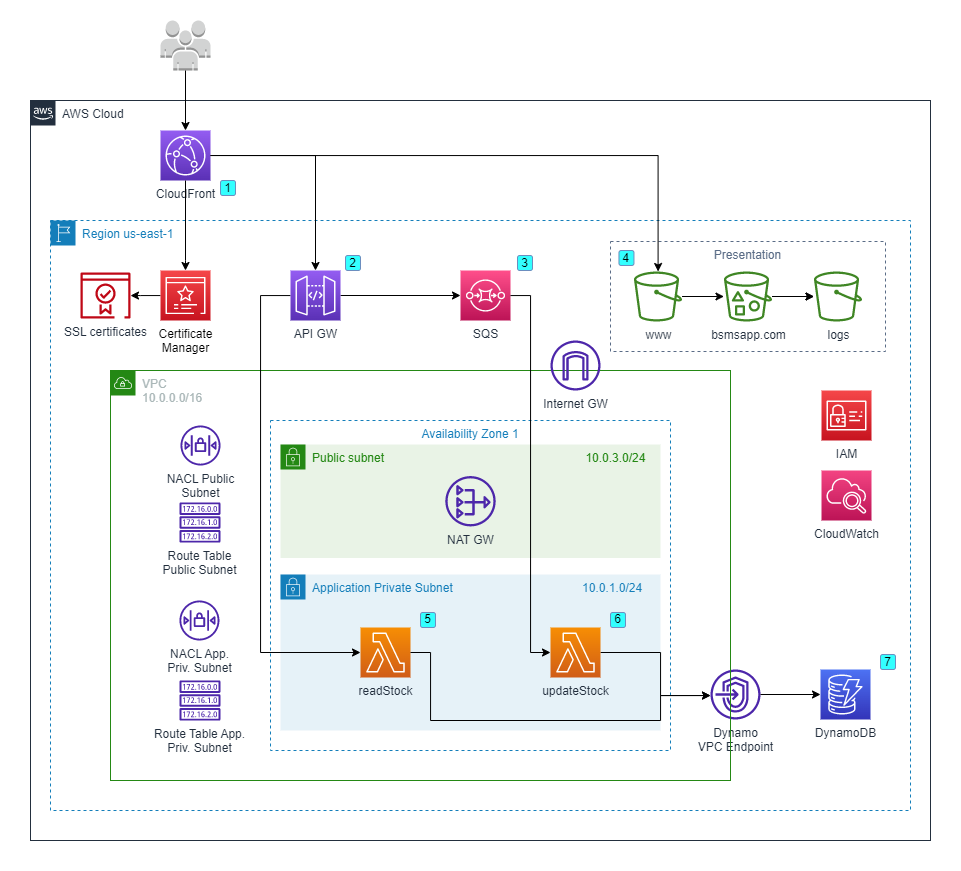
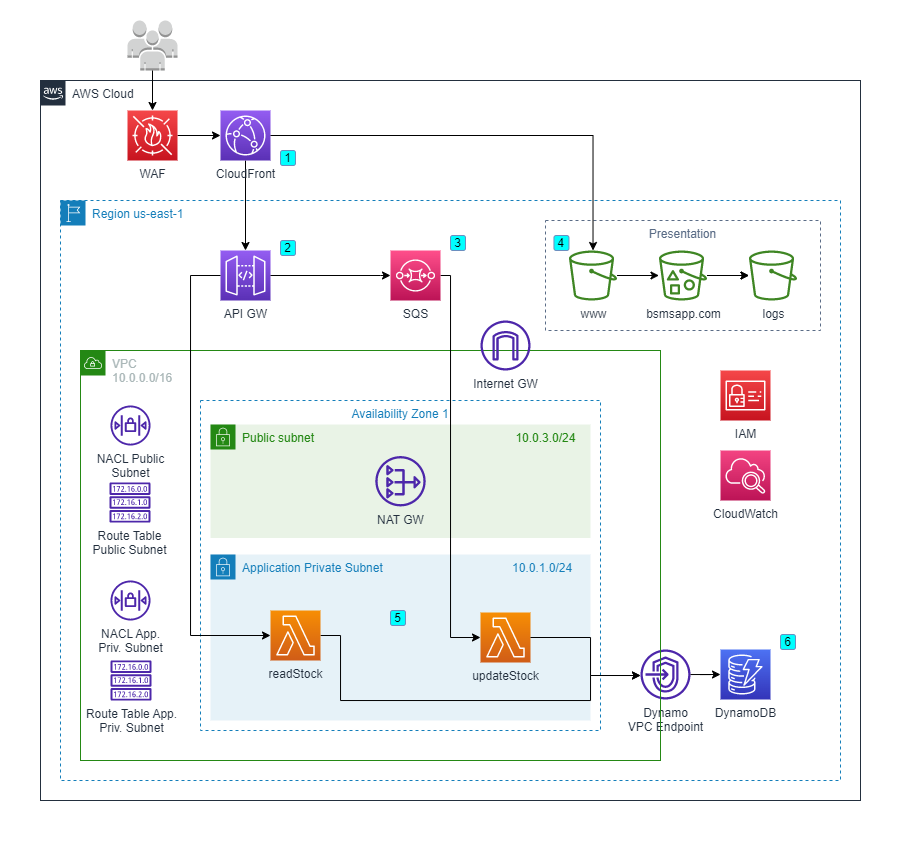
Fix more bugs

diff --git a/README.md b/README.md
@@ -10,7 +10,7 @@ Construye una API REST que puede recibir requests POST, GET u OPTIONS. En el cas
 
 ### CloudFront
 
-Realiza caché de la API y del S3 (que hostea el sitio estático).
+Funciona como CDN y realiza caché de la API y del S3 (que hostea el sitio estático).
 
 ### Dynamo DB
 
@@ -34,7 +34,7 @@ Este módulo es [externo](https://registry.terraform.io/modules/terraform-aws-mo
 
 ### WAF
 
-Protege la aplicación mediante 3 rules. Esto lo hace mediante la creación de un web ACL asociado a la distribución de cloudfront.
+Protege la aplicación mediante 3 rules. Esto lo hace mediante la creación de un web ACL asociado a la distribución de CloudFront.
 
 ## Descripción y referencia de funciones y meta-argumentos
 
@@ -66,11 +66,11 @@ Junto a cada función se especifica para qué se usa.
     + [modules/s3/main.tf](terraform/modules/s3/main.tf#L38)
     + [organization/cloudfront.tf](terraform/organization/cloudfront.tf#L13)
 
-- **trimsuffix**: remueve substring del final de un string.
-    + [modules/s3/main.tf](terraform/modules/s3/main.tf#L19)
-
 - **sha1**: computa el `SHA1` del string de la configuración del apigw para saber si se necesita forzar el redeploy del módulo.
     + [modules/apigw/main.tf](terraform/modules/apigw/main.tf#L103)
+
+- **trimsuffix**: remueve substring del final de un string.
+    + [modules/s3/main.tf](terraform/modules/s3/main.tf#L19)
 
 - **try**: en caso de que no haya objetos, se utiliza un objeto vacío.
     + [modules/s3/main.tf](terraform/modules/s3/main.tf#L35)
